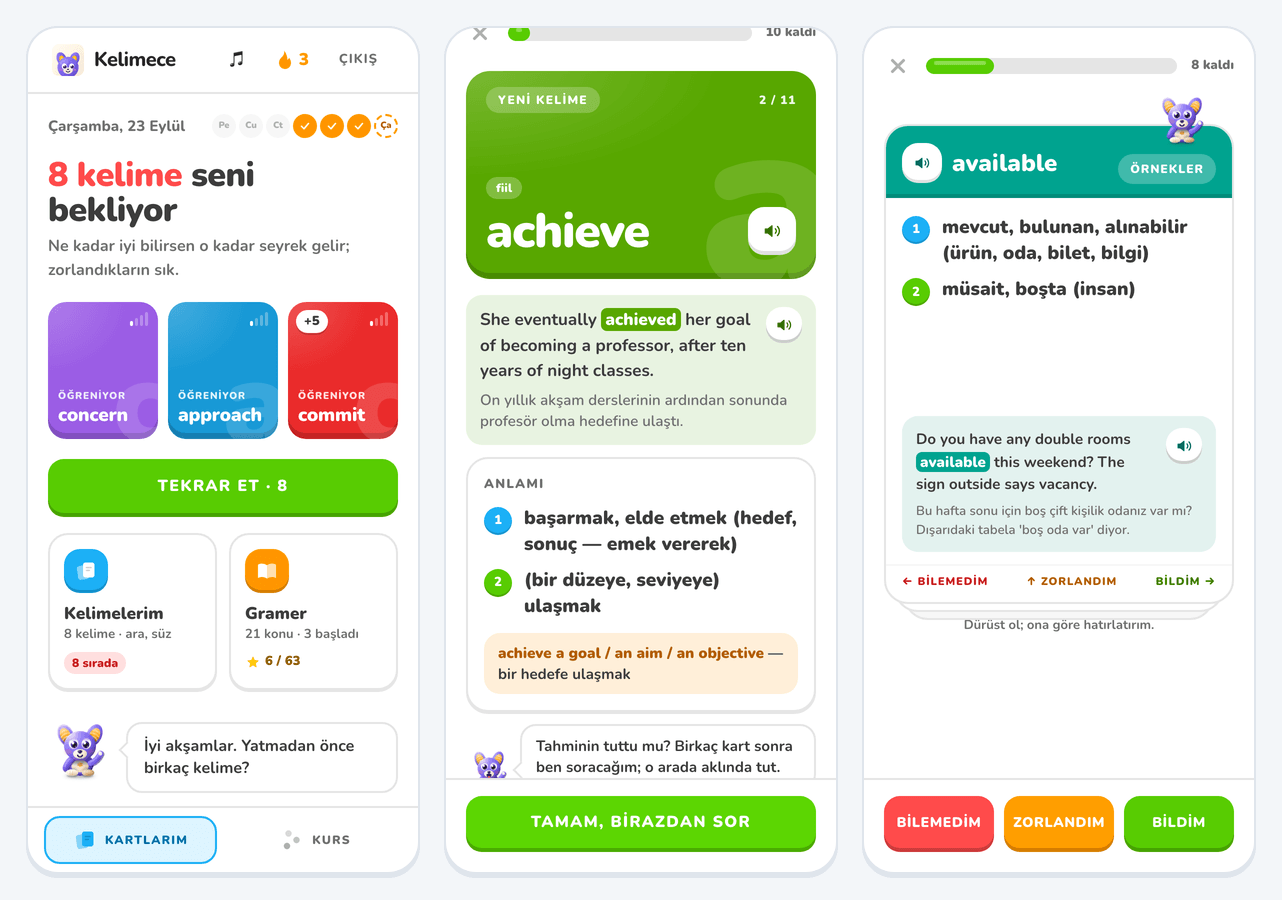
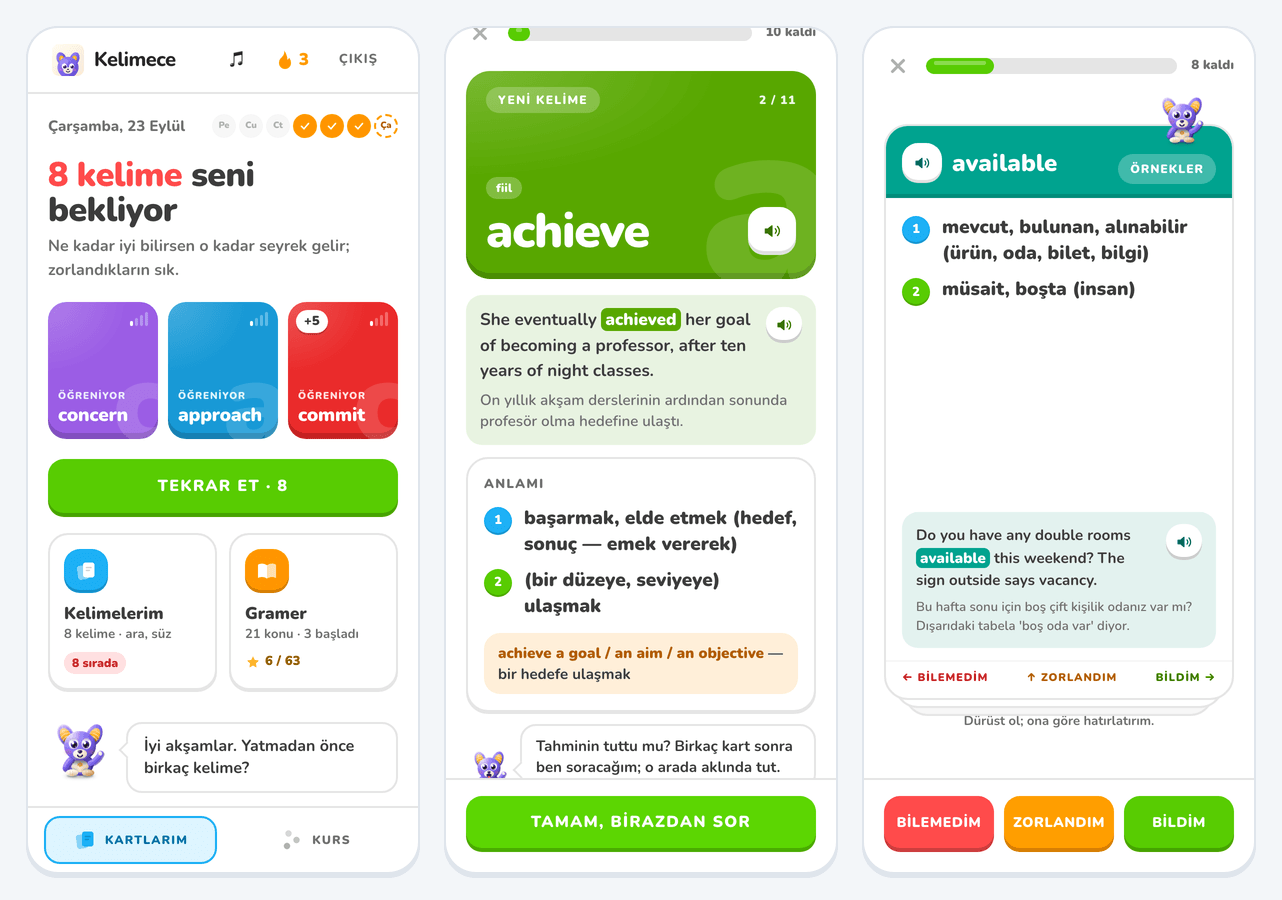
Room on the card back for many senses
A word with three or more senses gets a tighter list of meanings and the
shortest sentence its senses carry (its Turkish counterpart still lit in
that sense's colour); the card is taller, and on a short screen the swipe
hints give their row to the sentence. README screenshots retaken.

Changed region(s): [[0.6864, 0.4356, 0.9672, 0.8089]]

diff --git a/web/src/pages/Flashcards.tsx b/web/src/pages/Flashcards.tsx
@@ -106,6 +106,24 @@ function meaningsOf(card: Card): { pos: string | null; meaning: string }[] {
   return [{ pos, meaning: text }];
 }
 
+/** The one sentence a card's back has room for (see FlipStep). */
+function backSentence(card: Card): { en: string; tr: string | null; meaning: string } | null {
+  const senses = card.senses ?? [];
+  if (senses.length > 2) {
+    let best: { en: string; tr: string | null; meaning: string } | null = null;
+    for (const sense of senses) {
+      const lines = [{ en: sense.example_en, tr: sense.example_tr }, ...(sense.examples ?? [])];
+      for (const line of lines) {
+        const en = line.en?.trim();
+        if (en && splitOnWord(en, card.front) && (!best || en.length < best.en.length)) best = { en, tr: line.tr?.trim() || null, meaning: sense.meaning };
+      }
+    }
+    if (best) return best;
+  }
+  const first = sentencesOf(card)[0];
+  return first ? { ...first, meaning: meaningsOf(card)[0]?.meaning ?? "" } : null;
+}
+
 /**
  * The meanings as a numbered list, each number in its sense's colour — the
  * same colours the word's page gives its senses, so meaning 2 is always the
@@ -114,6 +132,8 @@ function meaningsOf(card: Card): { pos: string | null; meaning: string }[] {
 function Meanings({ card, animate, large = true }: { card: Card; animate: boolean; large?: boolean }) {
   const meanings = meaningsOf(card);
   const mixedTypes = new Set(meanings.map((m) => m.pos ?? "")).size > 1;
+  // Three senses or more: a tighter list, so the card still has room for a sentence.
+  const tight = meanings.length > 2;
   if (meanings.length === 1 && large) {
     return (
       <p className={`wrap-break-word text-[28px] font-black leading-[1.12] tracking-[-0.01em] text-ink ${animate ? "animate-rise-in" : ""}`} style={delay(200)}>
@@ -122,17 +142,23 @@ function Meanings({ card, animate, large = true }: { card: Card; animate: boolea
     );
   }
   return (
-    <ol className="space-y-2.5">
+    <ol className={tight ? "space-y-1.5" : "space-y-2.5"}>
       {meanings.map((m, i) => (
         <li
           key={i}
           style={{ ...familyStyle(familyAt(i)), ...delay(200 + Math.min(i, 6) * 60) }}
           className={`flex items-start gap-3 ${animate ? "animate-rise-in" : ""}`}
         >
-          <span className="mt-0.5 grid h-7 w-7 shrink-0 place-items-center rounded-full bg-(--c) text-[13px] font-black text-white shadow-[inset_0_-2px_0_0_rgba(0,0,0,0.15)]">{i + 1}</span>
-          <p className="min-w-0 text-[19px] font-black leading-snug text-ink">
+          <span
+            className={`grid shrink-0 place-items-center rounded-full bg-(--c) font-black text-white shadow-[inset_0_-2px_0_0_rgba(0,0,0,0.15)] ${
+              tight ? "mt-px h-6 w-6 text-[12px]" : "mt-0.5 h-7 w-7 text-[13px]"
+            }`}
+          >
+            {i + 1}
+          </span>
+          <p className={`min-w-0 font-black text-ink ${tight ? "text-[17px] leading-tight" : "text-[19px] leading-snug"}`}>
             {m.meaning}
-            {m.pos && mixedTypes && <PosPill pos={m.pos} className="ml-2 align-middle" />}
+            {m.pos && mixedTypes && <PosPill pos={m.pos} className={`ml-1.5 align-middle ${tight ? "!px-2 !py-0 !text-[11px]" : ""}`} />}
           </p>
         </li>
       ))}
@@ -293,9 +319,11 @@ function FlipStep({
   const listen = step.kind === "listen";
   const { pos } = parseBack(card.back);
   const firstPos = pos ?? card.senses?.[0]?.pos ?? null;
-  const meanings = meaningsOf(card);
   const hasDetails = Boolean(card.senses?.length || card.example_sentence || card.related?.length || card.watch_out);
-  const sentence = sentencesOf(card)[0] ?? null;
+  // The sentence on the back: the word's first one, or — when there are
+  // many senses to fit — the shortest one the senses carry, with the
+  // meaning it belongs to so its Turkish counterpart still lights up.
+  const sentence = backSentence(card);
 
   useEffect(() => () => window.clearTimeout(flyTimer.current), []);
 
@@ -397,7 +425,7 @@ function FlipStep({
   return (
     <>
       {/* The pile, with Tonton peeking over its top edge. */}
-      <div className="relative mt-11 h-[30rem] max-h-[calc(100dvh-20rem)] min-h-[21rem]">
+      <div className="relative mt-11 h-[36rem] max-h-[calc(100dvh-16rem)] min-h-[21rem]">
         <Mascot size={56} mood={mood} quiet className="absolute -top-8 right-6 z-10" />
         {remaining > 2 && <div aria-hidden="true" className="absolute inset-x-5 top-4 h-full rounded-[24px] border-2 border-rule bg-paper-deep animate-pile-nudge [animation-delay:60ms]" />}
         {remaining > 1 && <div aria-hidden="true" className="absolute inset-x-2.5 top-2 h-full rounded-[24px] border-2 border-rule bg-white animate-pile-nudge" />}
@@ -499,7 +527,7 @@ function FlipStep({
                 }`}
               >
                 {/* Speaker first, the word, then Örnekler: the top-right corner is where Tonton sits. */}
-                <div className="flex items-center gap-2.5 tint-ground px-4 pb-3.5 pt-4 text-white shadow-[inset_0_-4px_0_0_rgba(0,0,0,0.14)]">
+                <div className="flex items-center gap-2.5 tint-ground px-4 pb-3.5 pt-4 text-white shadow-[inset_0_-4px_0_0_rgba(0,0,0,0.14)] [@media(max-height:720px)]:pb-2.5 [@media(max-height:720px)]:pt-3">
                   <span onPointerDown={(event) => event.stopPropagation()} className="shrink-0">
                     <SpeakButton text={card.front} size="sm" className="!bg-white !text-(--c-ink) !shadow-[inset_0_-3px_0_0_rgba(0,0,0,0.12)]" />
                   </span>
@@ -516,18 +544,19 @@ function FlipStep({
                   )}
                 </div>
 
-                <div className="flex min-h-0 flex-1 flex-col overflow-y-auto px-4 pb-3 pt-4">
+                <div className="flex min-h-0 flex-1 flex-col overflow-y-auto px-4 pb-3 pt-4 [@media(max-height:720px)]:pt-3">
                   {flipped && <Meanings card={card} animate />}
                   {sentence && flipped && (
-                    <div className="mt-auto pt-4 animate-rise-in" style={delay(420)}>
-                      <ExampleBubble en={sentence.en} tr={sentence.tr} headword={card.front} meaning={meanings[0]?.meaning ?? ""} size="sm" />
+                    <div className="mt-auto pt-3 animate-rise-in" style={delay(420)}>
+                      <ExampleBubble en={sentence.en} tr={sentence.tr} headword={card.front} meaning={sentence.meaning} size="sm" />
                     </div>
                   )}
                 </div>
 
+                {/* The swipe hints; on a short screen the grade buttons below say the same, so the sentence gets the room. */}
                 <div
                   aria-hidden="true"
-                  className={`flex items-center justify-between border-t-2 border-paper-deep px-4 pb-3 pt-2 text-[11px] font-black uppercase tracking-[0.08em] ${flipped ? "animate-rise-in" : "opacity-0"}`}
+                  className={`flex items-center justify-between border-t-2 border-paper-deep px-4 pb-3 pt-2 text-[11px] font-black uppercase tracking-[0.08em] [@media(max-height:720px)]:hidden ${flipped ? "animate-rise-in" : "opacity-0"}`}
                   style={delay(520)}
                 >
                   <span className="text-berry-ink">← bilemedim</span>
@@ -1193,7 +1222,7 @@ function Flashcards() {
         {!cardsQuery.isError && loading && (
           <div className="space-y-3 pt-3">
             <Skeleton className="h-4 w-full rounded-full" />
-            <Skeleton className="mt-8 h-[30rem] max-h-[calc(100dvh-20rem)] w-full rounded-[24px]" />
+            <Skeleton className="mt-8 h-[36rem] max-h-[calc(100dvh-16rem)] w-full rounded-[24px]" />
           </div>
         )}
         {!loading && !cardsQuery.isError && cards.length === 0 && (
